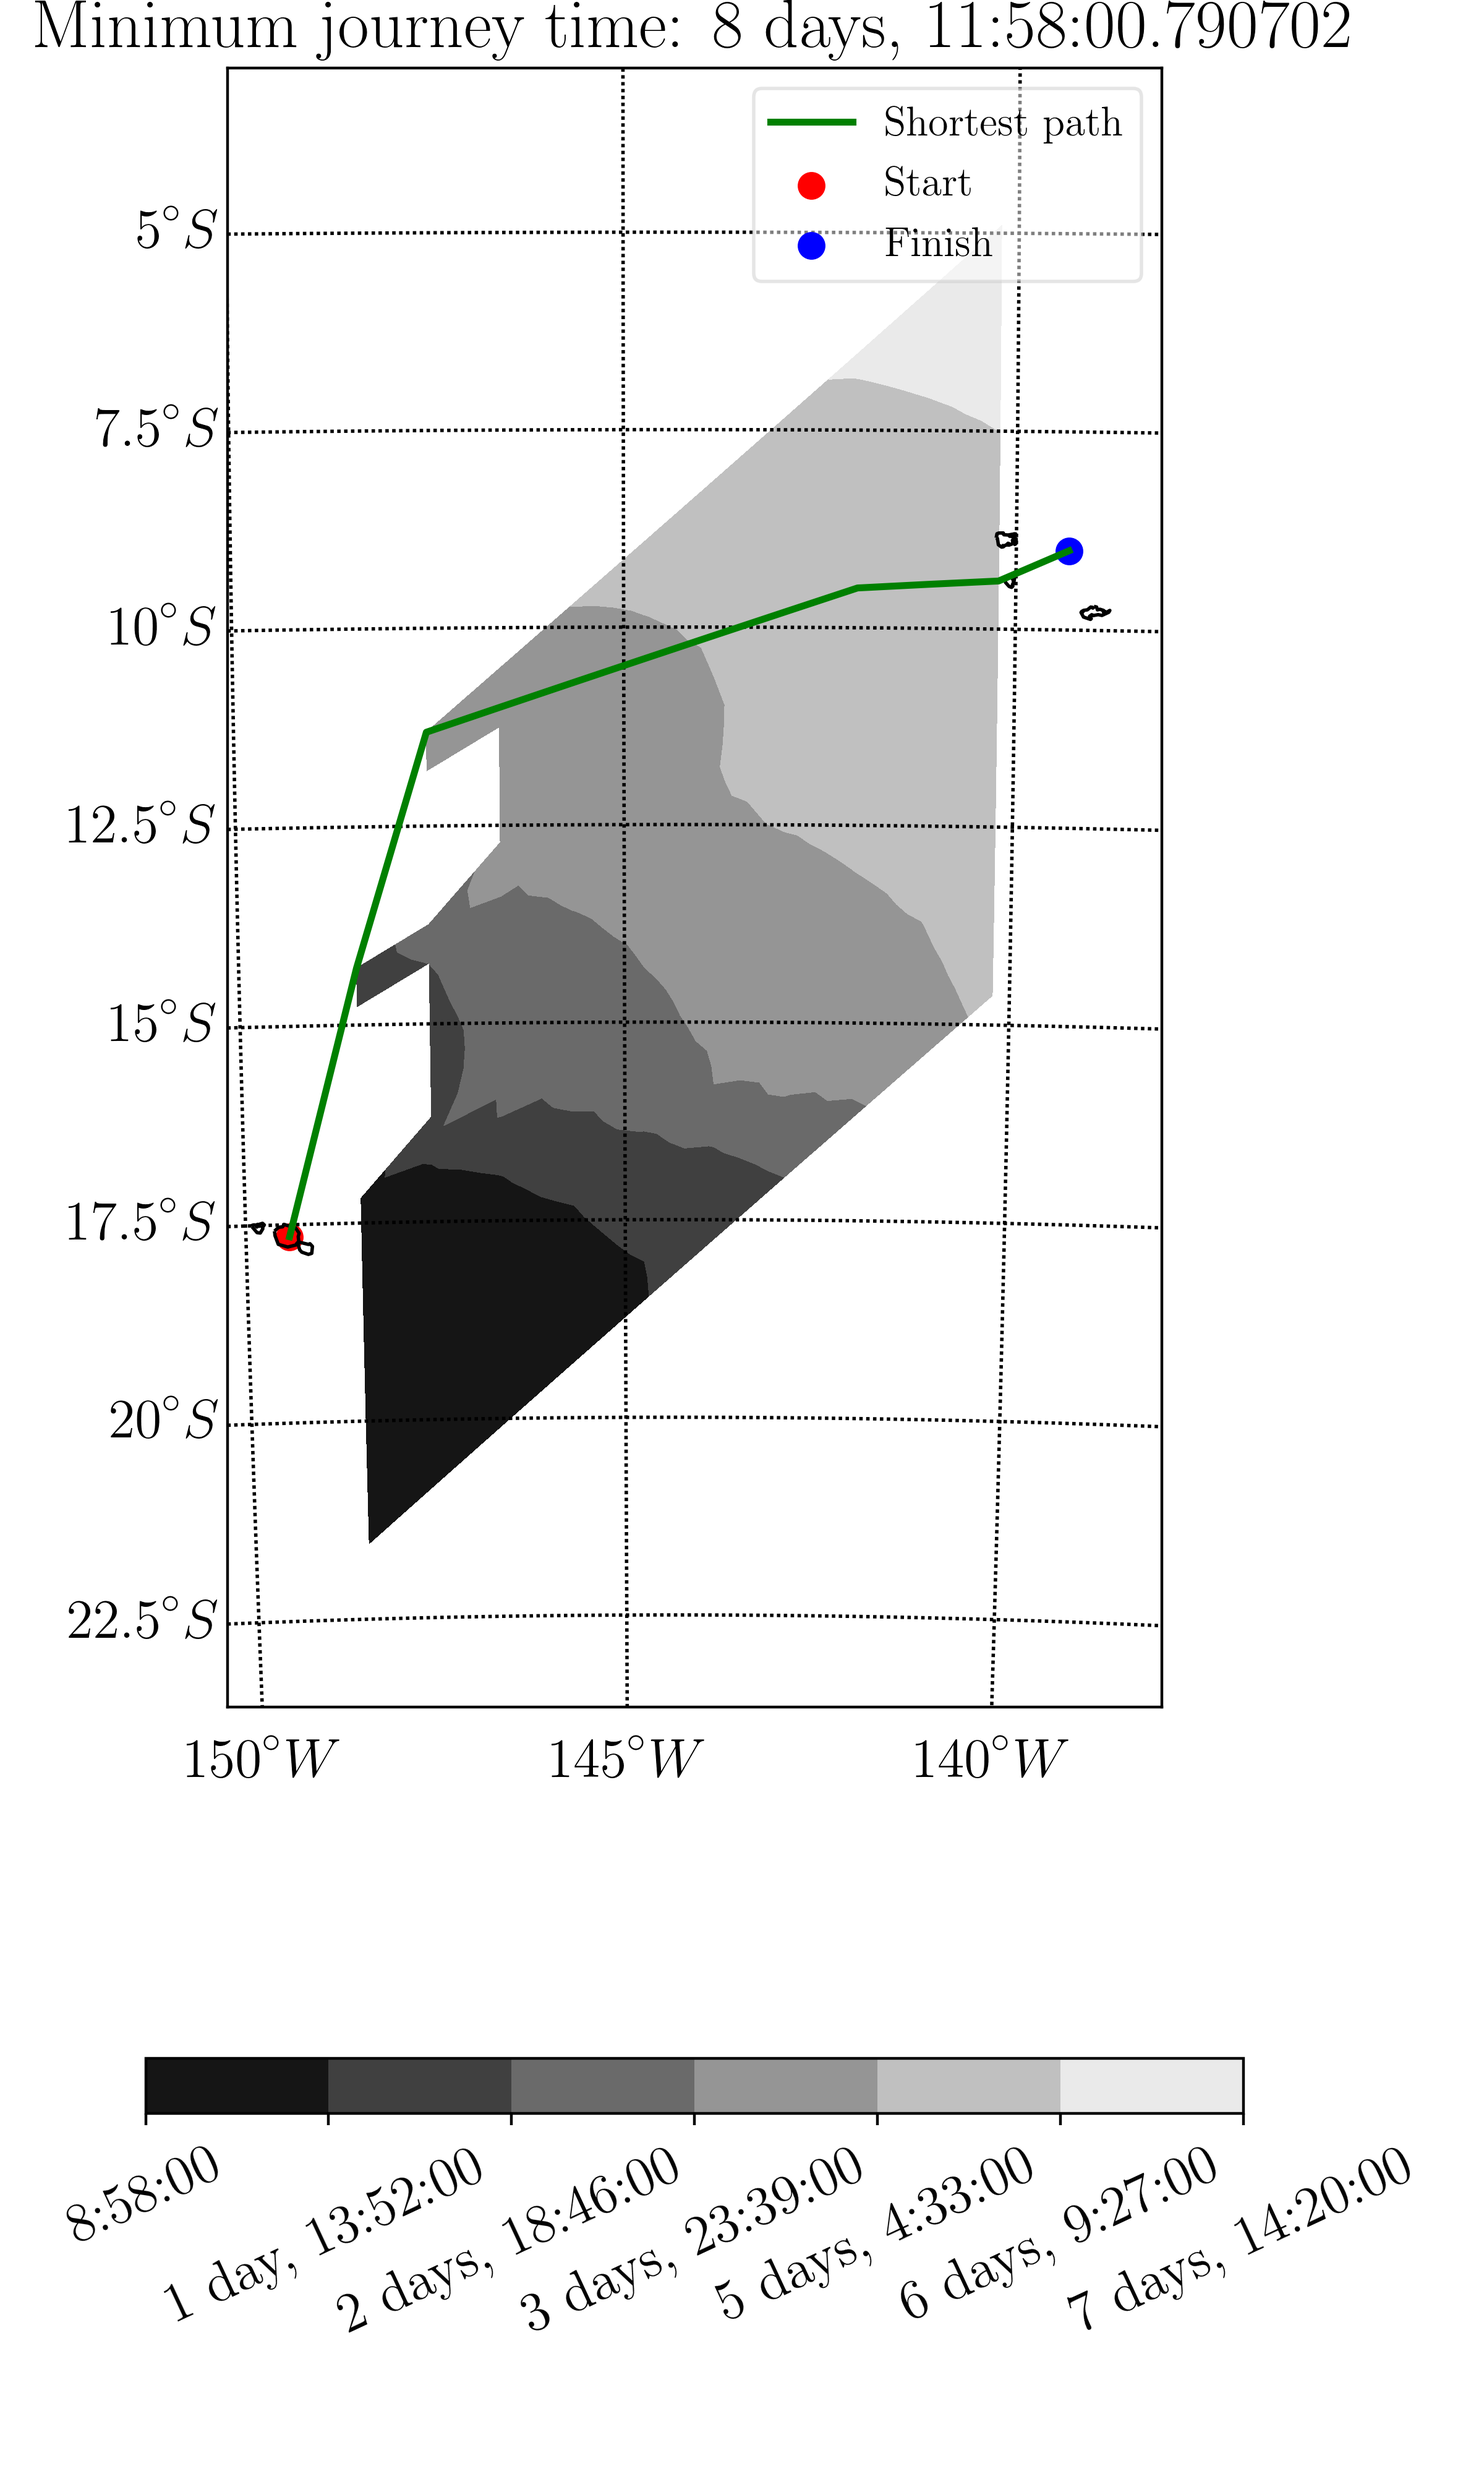
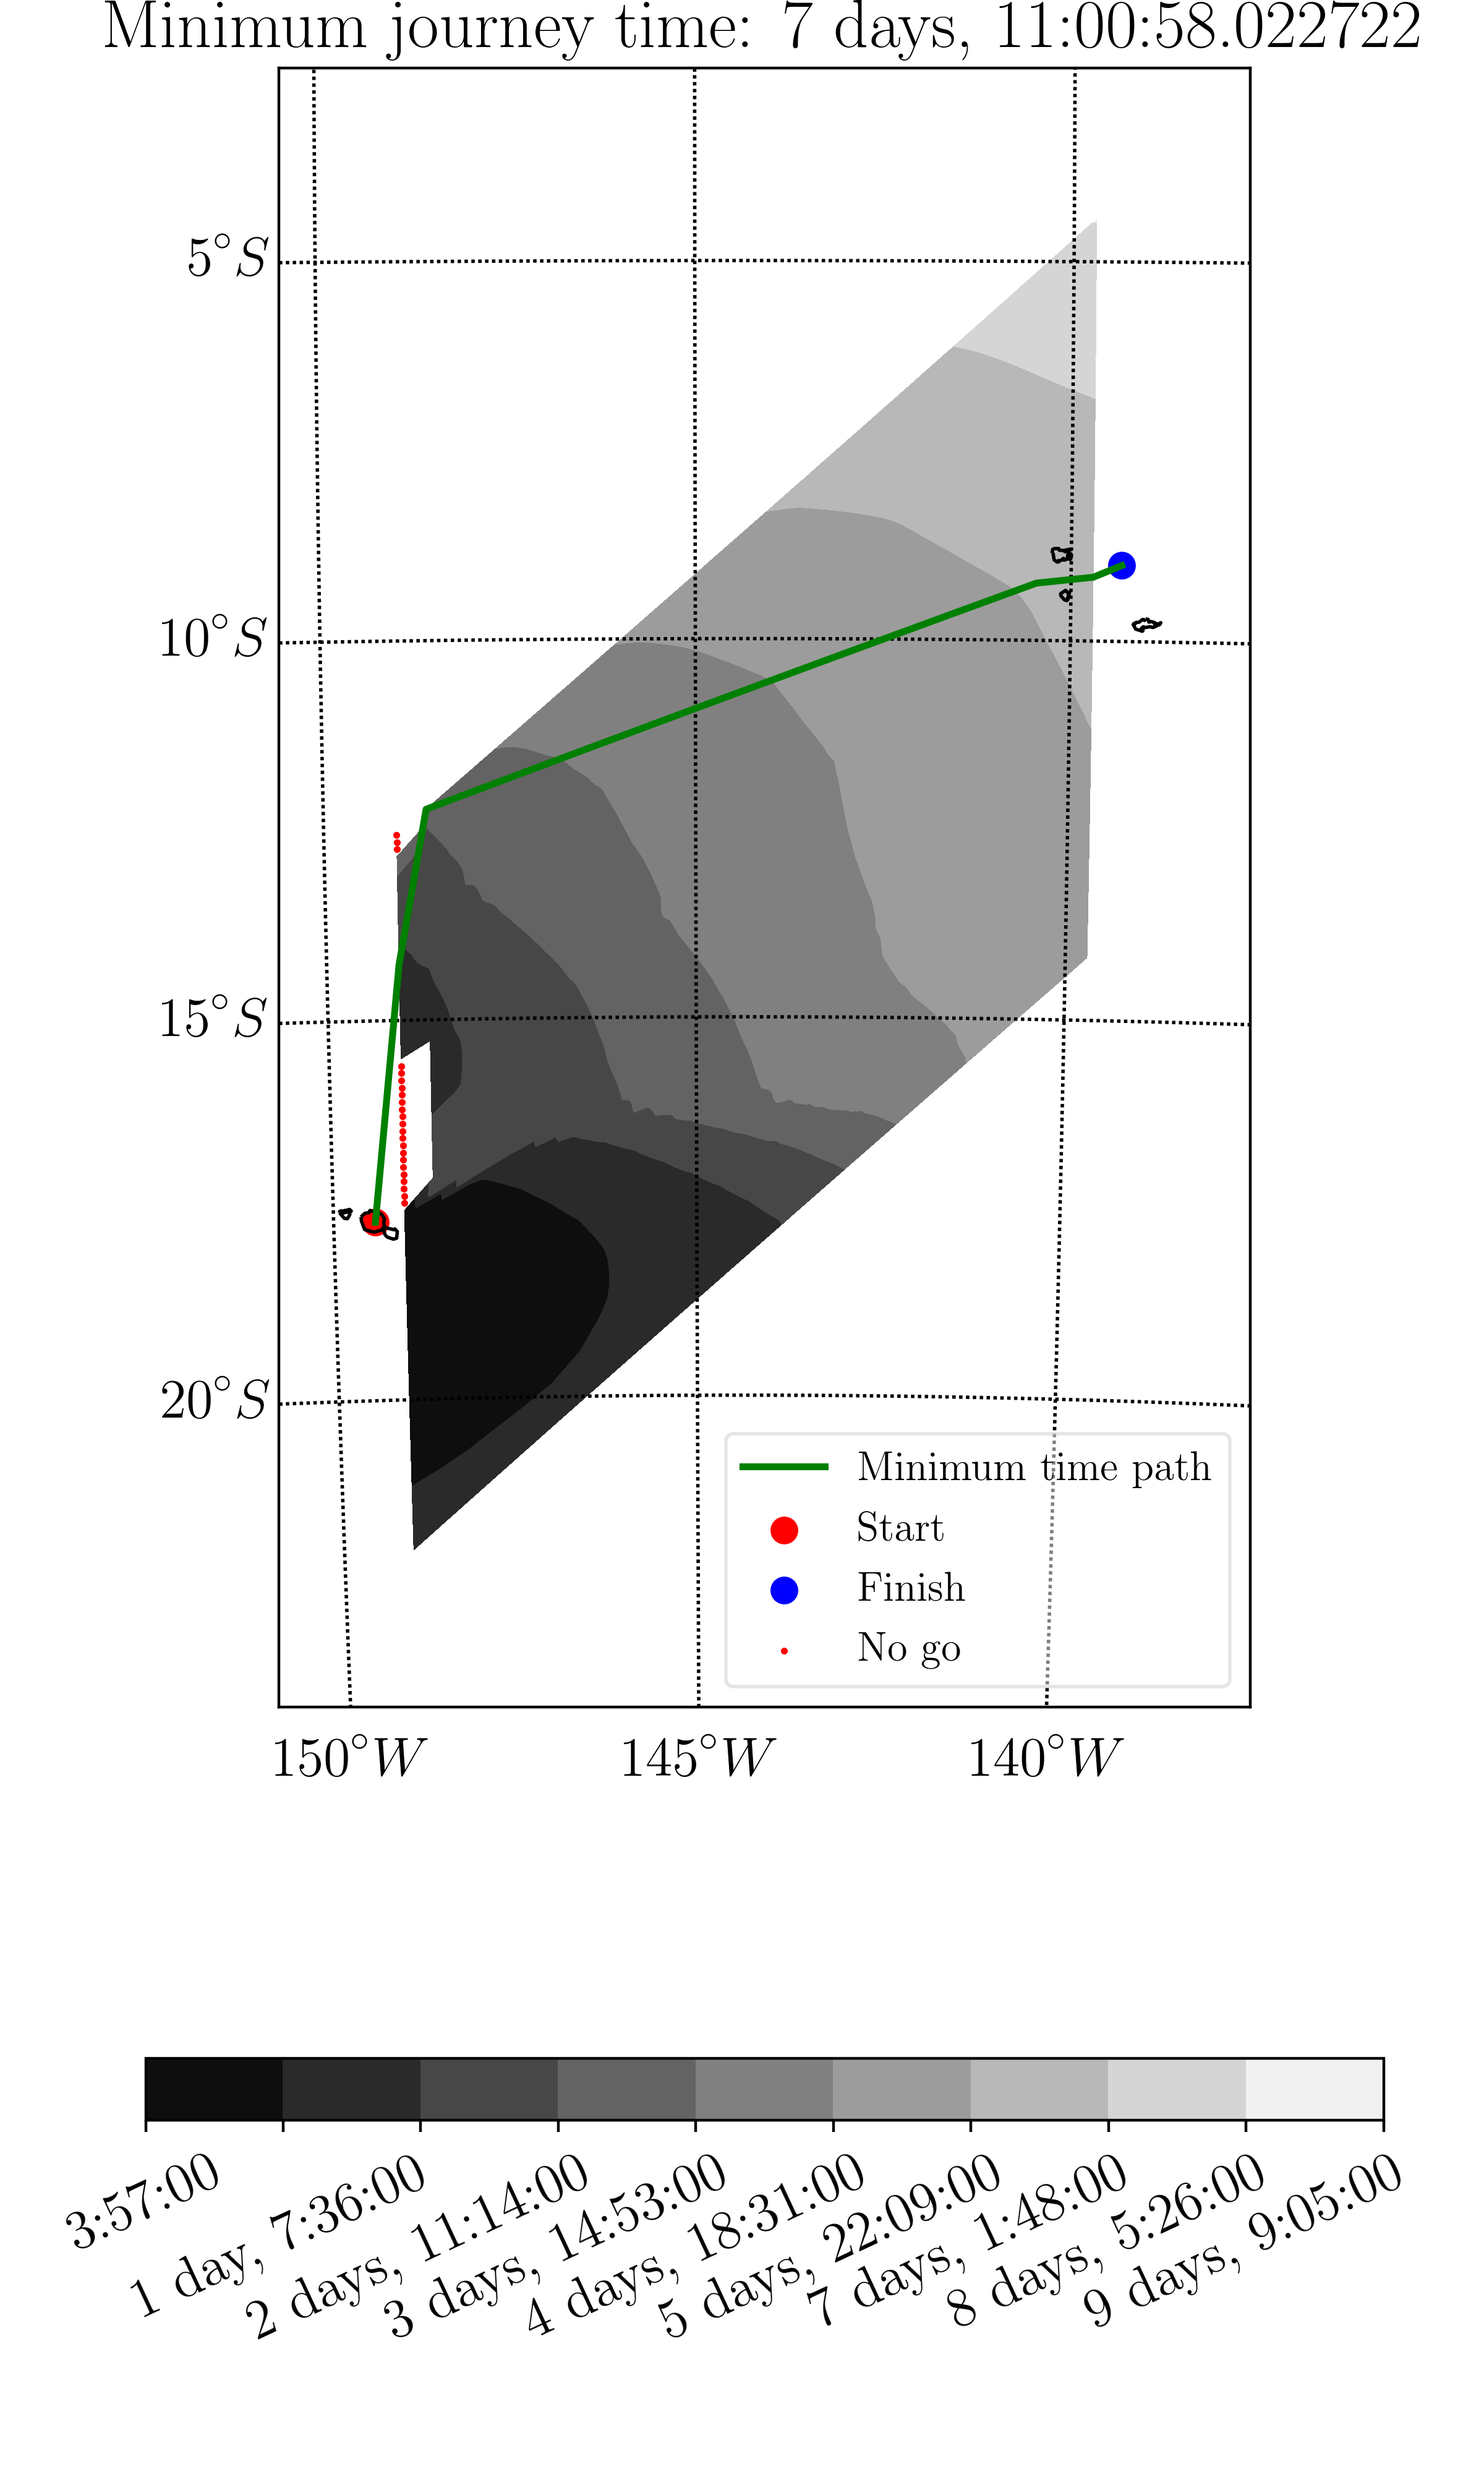
Remove pf calculations

diff --git a/sail_route/sail_routing.py b/sail_route/sail_routing.py
@@ -80,7 +80,6 @@ class Route:
 def min_time_calculate(route, time, craft, x, y,
                        land, tws, twd, wd, wh, wp, verb=True):
     """Calculate the earliest arrival time across co-ordinates."""
-    pf_vals = np.zeros_like(x)
     earl_time = np.full_like(x, np.inf)
     indxs, pindxs = gen_indx(x)
     tws_interp = setup_interpolator(tws)
@@ -88,6 +87,7 @@ def min_time_calculate(route, time, craft, x, y,
     wd_interp = setup_interpolator(wd)
     wh_interp = setup_interpolator(wh)
     wp_interp = setup_interpolator(wp)
+    end_node = 0
     journey_time = 10**10
     for i in range(route.n_width):
         i_tws = tws_interp([x[0, i], y[0, i], time]).data
@@ -105,7 +105,6 @@ def min_time_calculate(route, time, craft, x, y,
             pass
         else:
             total_time = time + travel_time
-            pf_vals[0, i] = pf
             earl_time[0, i] = total_time.timestamp()
     for i in range(route.n_ranks-1):
         for j in range(route.n_width):
@@ -137,7 +136,6 @@ def min_time_calculate(route, time, craft, x, y,
                             jt = utime + travel_time
                             if jt.timestamp() < earl_time[i+1, k]:
                                 earl_time[i+1, k] = jt.timestamp()
-                                pf_vals[i+1, k] = pf
                                 pindxs[i+1, k] = indxs[i, j]
             if np.isfinite(earl_time[i+1, :]) is not True:
                 pass
@@ -164,11 +162,7 @@ def min_time_calculate(route, time, craft, x, y,
                 et = datetime.fromtimestamp(earl_time[-1, i]) + travel_time
                 if datetime.fromtimestamp(journey_time) > et:
                     journey_time = et.timestamp()
-                    pf_vals[-1, i] = pf
                     end_node = indxs[-1, i]
-    # if np.isfinite(earl_time[-1, :].all()) is not True:
-    #     return time.timestamp(), earl_time, pf_vals, route.start.long, route.start.lat
-    # else:
     sp = shortest_path(indxs, pindxs, [end_node])
     x_route, y_route = get_locs(indxs, sp, x, y)
     x_route = np.hstack(([route.finish.long], x_route,
@@ -176,7 +170,7 @@ def min_time_calculate(route, time, craft, x, y,
     y_route = np.hstack(([route.finish.lat], y_route,
                         [route.start.lat]))
     if verb is True:
-        return journey_time, earl_time, pf_vals, x_route, y_route
+        return journey_time, earl_time, x_route, y_route
     else:
         return journey_time, x_route, y_route
 
@@ -237,7 +231,7 @@ def plot_mt_route(start, route, x, y, x_r, y_r, et, jt, fname):
     map.drawmeridians(meridians, labels=[0, 0, 0, 1])
     map.scatter(r_f_x, r_f_y, color='blue', s=50, label='Finish')
     x_r, y_r = map(x_r, y_r)
-    map.plot(x_r, y_r, color='green', label='Shortest path')
+    map.plot(x_r, y_r, color='green', label='Minimum time path')
     if et[et < np.inf].size == 0:
         pass
     else:
@@ -248,38 +242,10 @@ def plot_mt_route(start, route, x, y, x_r, y_r, et, jt, fname):
                                    et[et < np.inf].max(), 9)]
         cbar = plt.colorbar(ctf, orientation='horizontal')
         cbar.ax.set_xticklabels(y_tick_labs, rotation=25)
+        map.scatter(x[et > 1e308], y[et > 1e308], color='red',
+                    s=1, label='No go')
     plt.legend(loc='best', fancybox=True, framealpha=0.5)
     plt.tight_layout()
     plt.title("Minimum journey time: " + str(vt))
     plt.savefig(fname+"min_time"+".png")
-    plt.clf()
-
-
-def plot_reliability_route(start, route, x, y, pf_vals, jt, fname):
-    """Plot reliability predictions from routing."""
-    plt.figure(figsize=(6, 10))
-    res = 'i'
-    add_param = 2
-    map = Basemap(projection='tmerc',
-                  ellps='WGS84',
-                  lat_0=(y.min() + y.max())/2,
-                  lon_0=(x.min() + x.max())/2,
-                  llcrnrlon=x.min()-add_param,
-                  llcrnrlat=y.min()-add_param,
-                  urcrnrlon=x.max()+add_param,
-                  urcrnrlat=y.max()+add_param,
-                  # lat_ts=(y.min() + y.max())/2,
-                  resolution=res)  # f = fine resolution
-    map.drawcoastlines()
-    x, y = map(x, y)
-    ctf = map.contourf(x, y, pf_vals, cmap='Reds', vmin=0, vmax=1)
-    r_s_x, r_s_y = map(route.start.long, route.start.lat)
-    map.scatter(r_s_x, r_s_y, color='red', s=50, label='Start')
-    r_f_x, r_f_y = map(route.finish.long, route.finish.lat)
-    map.scatter(r_f_x, r_f_y, color='blue', s=50, label='Finish')
-    x_locs_pf, y_locs_pf, pf_min = min_vals(x, y, pf_vals)
-    cbar = plt.colorbar(ctf, orientation='horizontal',
-                        boundaries=np.linspace(0, 1, 10))
-    cbar.set_label(r'$p_f$')
-    plt.savefig(fname+"reliability"+".png")
     plt.clf()

diff --git a/analysis/canoe_voyaging.py b/analysis/canoe_voyaging.py
@@ -10,8 +10,7 @@ from datetime import datetime
 from canoe_voyaging_utils import datetime_range, load_tongiaki_perf
 from sail_route.weather.weather_assistance import return_domain
 from sail_route.sail_routing import Location, Route, \
-                                   min_time_calculate, plot_mt_route, \
-                                   plot_reliability_route
+                                   min_time_calculate, plot_mt_route
 from sail_route.performance.cost_function import haversine
 from sail_route.route.grid_locations import return_co_ords
 from grid_error import calc_h
@@ -22,8 +21,8 @@ def run_simulation_over_days():
     tahiti = Location(-149.426, -17.651)
     marquesas = Location(-139.33, -9)
     craft = load_tongiaki_perf()
-    n_nodes = 10
-    n_width = n_nodes*4
+    n_nodes = 160
+    n_width = n_nodes
     print("Nodes in rank: ", n_nodes)
     print("Nodes in width: ", n_width)
     dist, bearing = haversine(tahiti.long, tahiti.lat, marquesas.long,
@@ -31,6 +30,10 @@ def run_simulation_over_days():
     node_distance = 1000*dist/n_width
     print("Node height distance is ", dist/n_nodes*1000, " m")
     print("Node width distance is ", node_distance, " m")
+    area = node_distance*dist/n_nodes*1000
+    total_area = n_nodes * n_width * area
+    h = (1/(n_nodes * n_width) * total_area)**0.5
+    print("h = {0} ".format(h))
     r = Route(tahiti, marquesas, n_nodes, n_width,
               node_distance, craft)
     pyroute_path = "/home/thomas/Documents/pyroute/"
@@ -45,9 +48,9 @@ def run_simulation_over_days():
                                     r.start.lat, r.finish.lat,
                                     r.n_ranks, r.n_width, r.d_node)
         tws, twd, wd, wh, wp = return_domain(wind_fname, waves_fname)
-        jt, et, pf_vals, x_r, y_r = min_time_calculate(r, t, craft,
-                                                       x, y, land,
-                                                       tws, twd, wd, wh, wp)
+        jt, et, x_r, y_r = min_time_calculate(r, t, craft,
+                                              x, y, land,
+                                              tws, twd, wd, wh, wp)
         vt = datetime.fromtimestamp(jt) - t
         print("Journey time is: ", vt)
         plot_mt_route(t, r, x, y, x_r, y_r, et, jt, dia_path+"/"+str(t))
@@ -66,23 +69,24 @@ def grid_error():
     wind_fname = pyroute_path + "analysis/poly_data/data_dir/wind_forecast.nc"
     waves_fname = pyroute_path + "analysis/poly_data/data_dir/wave_data.nc"
     diagram_path = pyroute_path + "analysis/poly_data"
-    sd = datetime(2014, 7, 1, 0, 0)
+    sd = datetime(2000, 7, 1, 0, 0)
     dist, bearing = haversine(tahiti.long, tahiti.lat, marquesas.long,
                               marquesas.lat)
     tws, twd, wd, wh, wp = return_domain(wind_fname, waves_fname)
-    nodes = np.array([i**2 for i in range(7, 9)])
+    nodes = np.array([i**2 for i in range(7, 15, 2)])
     times = []
     h_vals = []
     for count, node in enumerate(nodes):
-        node_distance = (dist/0.5399565)/node
+        node_distance = dist/node
         r = Route(tahiti, marquesas, node, node,
                   node_distance*1000.0, craft)
         x, y, land = return_co_ords(r.start.long, r.finish.long,
                                     r.start.lat, r.finish.lat,
                                     r.n_ranks, r.n_width, r.d_node)
-        jt, et, pf_vals = min_time_calculate(r, sd, craft,
-                                             x, y, land,
-                                             tws, twd, wd, wh, wp)
+        jt, x_route, y_route = min_time_calculate(r, sd, craft,
+                                                  x, y, land,
+                                                  tws, twd, wd, wh, wp,
+                                                  False)
         h_vals.append(calc_h(node, node_distance**2))
         vt = datetime.fromtimestamp(jt) - sd
         print(h_vals[-1], "  ", vt)
